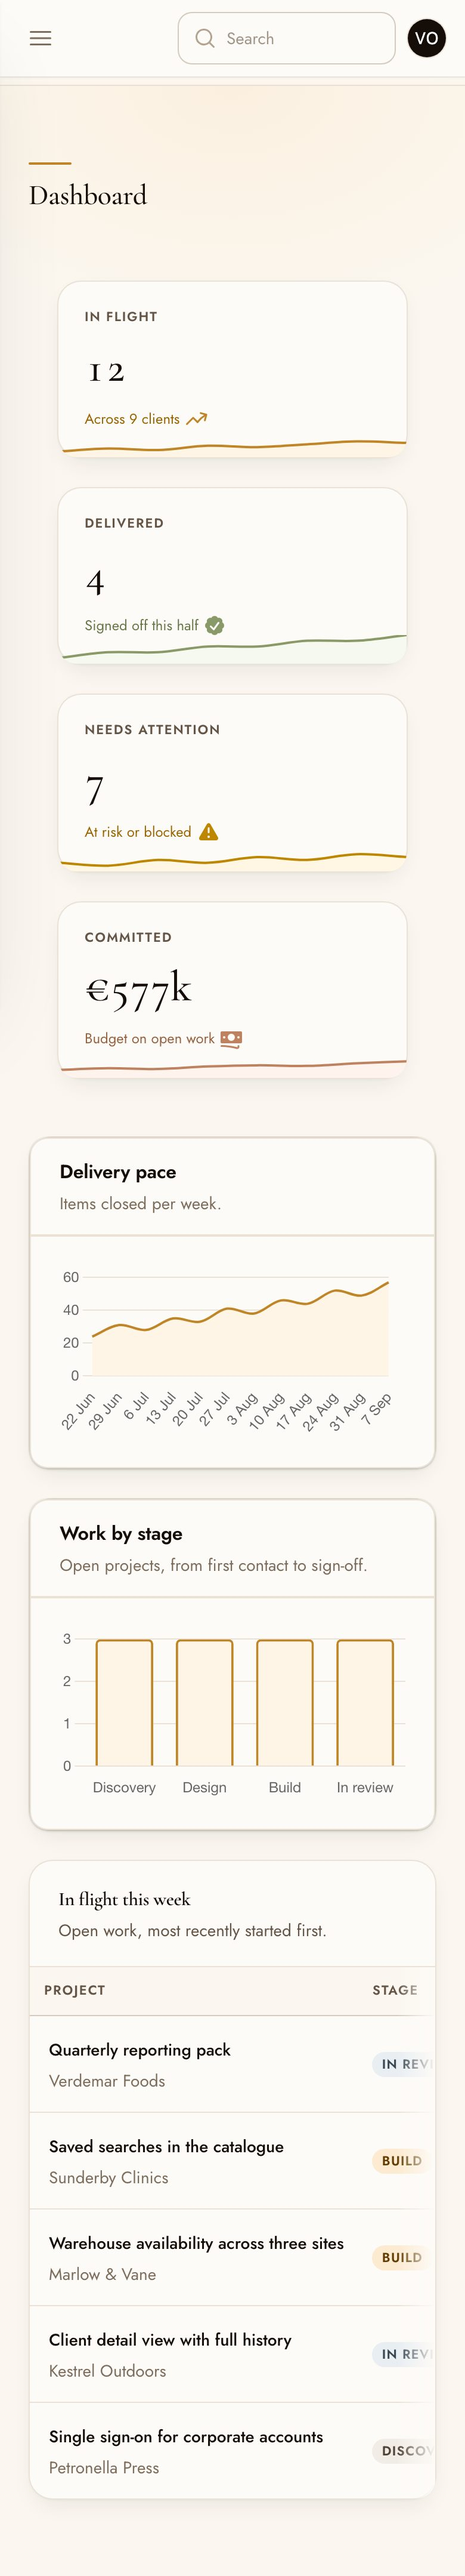
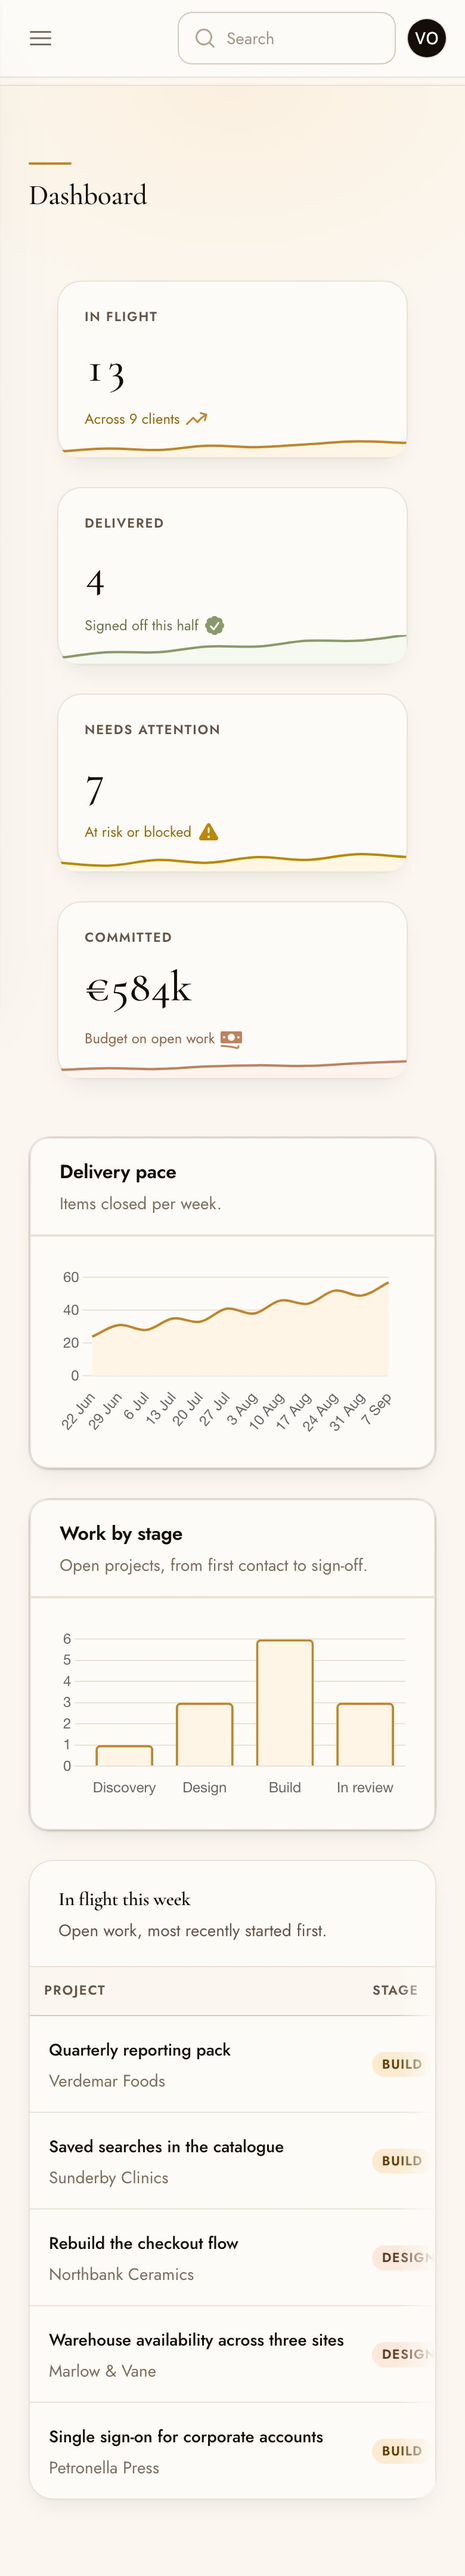
build(preview): deal the stages out, don't leave them to chance
Cycling five stages over fourteen projects gave three of each, and a chart of
three, three, three, three says nothing about how a bar chart looks. The mix
is now written out: uneven counts, every badge still on the first page.

Frames recaptured.

diff --git a/workbench/database/seeders/DatabaseSeeder.php b/workbench/database/seeders/DatabaseSeeder.php
@@ -50,9 +50,16 @@ class DatabaseSeeder extends Seeder
 
         $clients = Client::query()->where('tier', '!=', 'prospect')->get();
 
-        // Stages and health cycle rather than land at random, so every badge
-        // the panel can draw is on screen in the first page of the list.
-        $stages = ['discovery', 'design', 'build', 'review', 'on_hold'];
+        /*
+         * Stages are dealt out rather than left to chance: every badge the
+         * panel can draw has to appear on the first page of the list, and the
+         * counts have to be uneven or the chart of them is four equal bars.
+         */
+        $stages = [
+            'build', 'review', 'design', 'build', 'discovery', 'build', 'review',
+            'build', 'on_hold', 'design', 'build', 'review', 'build', 'design',
+        ];
+
         $health = ['on_track', 'at_risk', 'on_track', 'blocked'];
 
         Project::factory()
